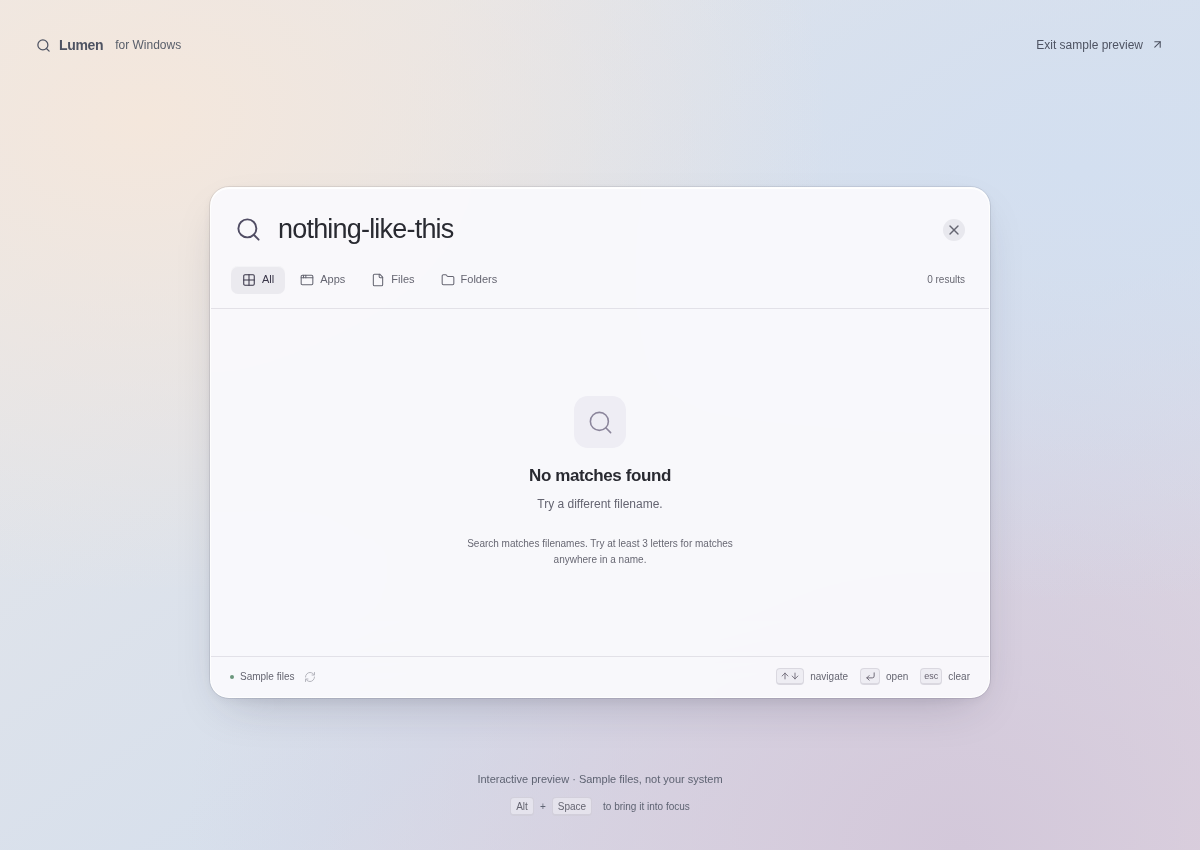
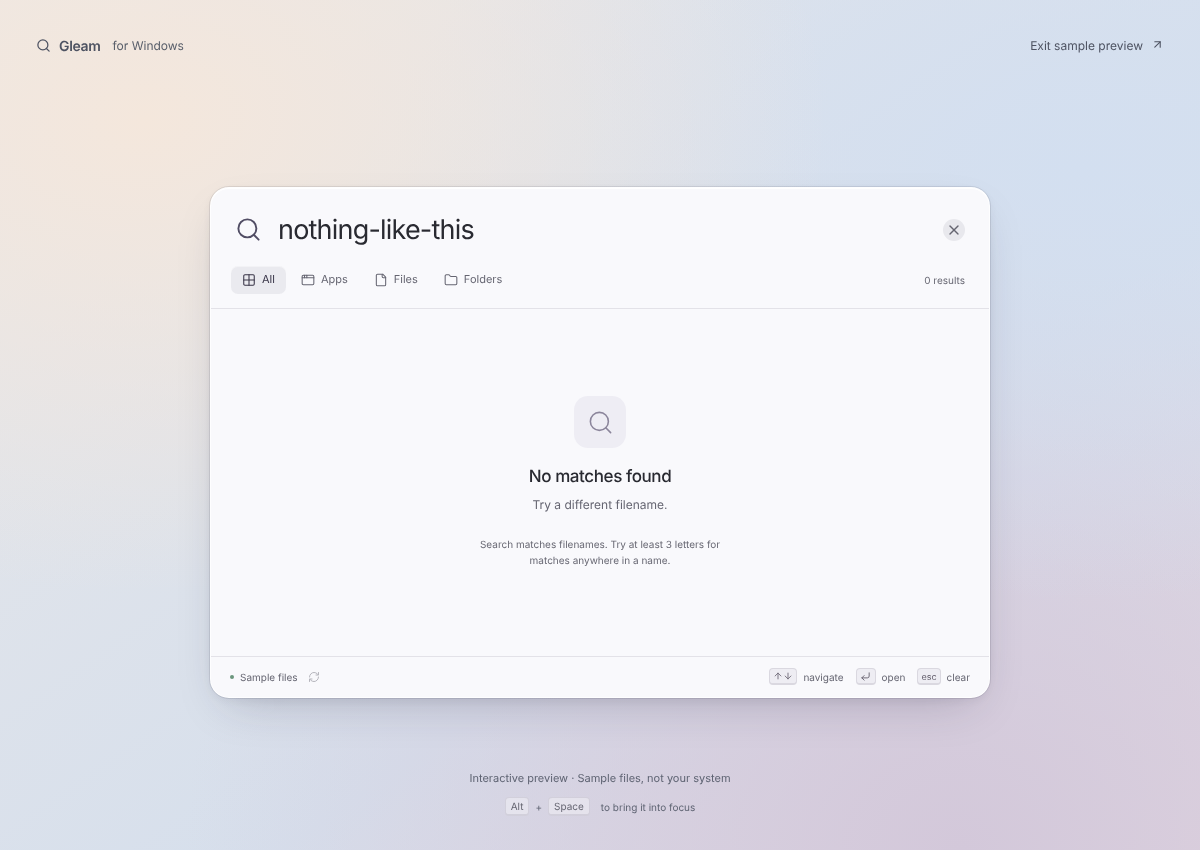
Regenerate the design screenshots for Gleam
The earlier design screenshot showed the old name and was removed.

diff --git a/design/notes.md b/design/notes.md
@@ -6,7 +6,7 @@ Reviewed Apple's [Spotlight guide](https://support.apple.com/en-gb/guide/mac-hel
 
 ## Before and after
 
-1. **Initial view — improved.** The prior 540px-tall window spent most of its area on branding and empty-state instructions. The new surface starts at the height of the input and filters, expands with a query, and clears before hiding on Escape. [Before](screenshots/before.png), [after](screenshots/after-idle.png).
+1. **Initial view — improved.** The prior 540px-tall window spent most of its area on branding and empty-state instructions. The new surface starts at the height of the input and filters, expands with a query, and clears before hiding on Escape. [After](screenshots/after-idle.png). A screenshot of the previous design was removed: it showed the project's earlier name and cannot be regenerated.
 2. **Results — improved.** The top match is distinct, filename matches have text emphasis, and the selected result has a separate type/location pane with open and copy-path actions. Polling the index preserves the selected item. [Results](screenshots/after-results.png).
 3. **No results — improved.** The screen suggests a different filename and offers to broaden a category-filtered search. It retains focus and the query. [Empty state](screenshots/after-empty.png).
 4. **Narrow view — checked.** Details collapse to prioritize the keyboard-navigable list; long names truncate. No horizontal overflow at 320, 480, 640, 768, or 1440px. [Narrow view](screenshots/after-narrow.png).
